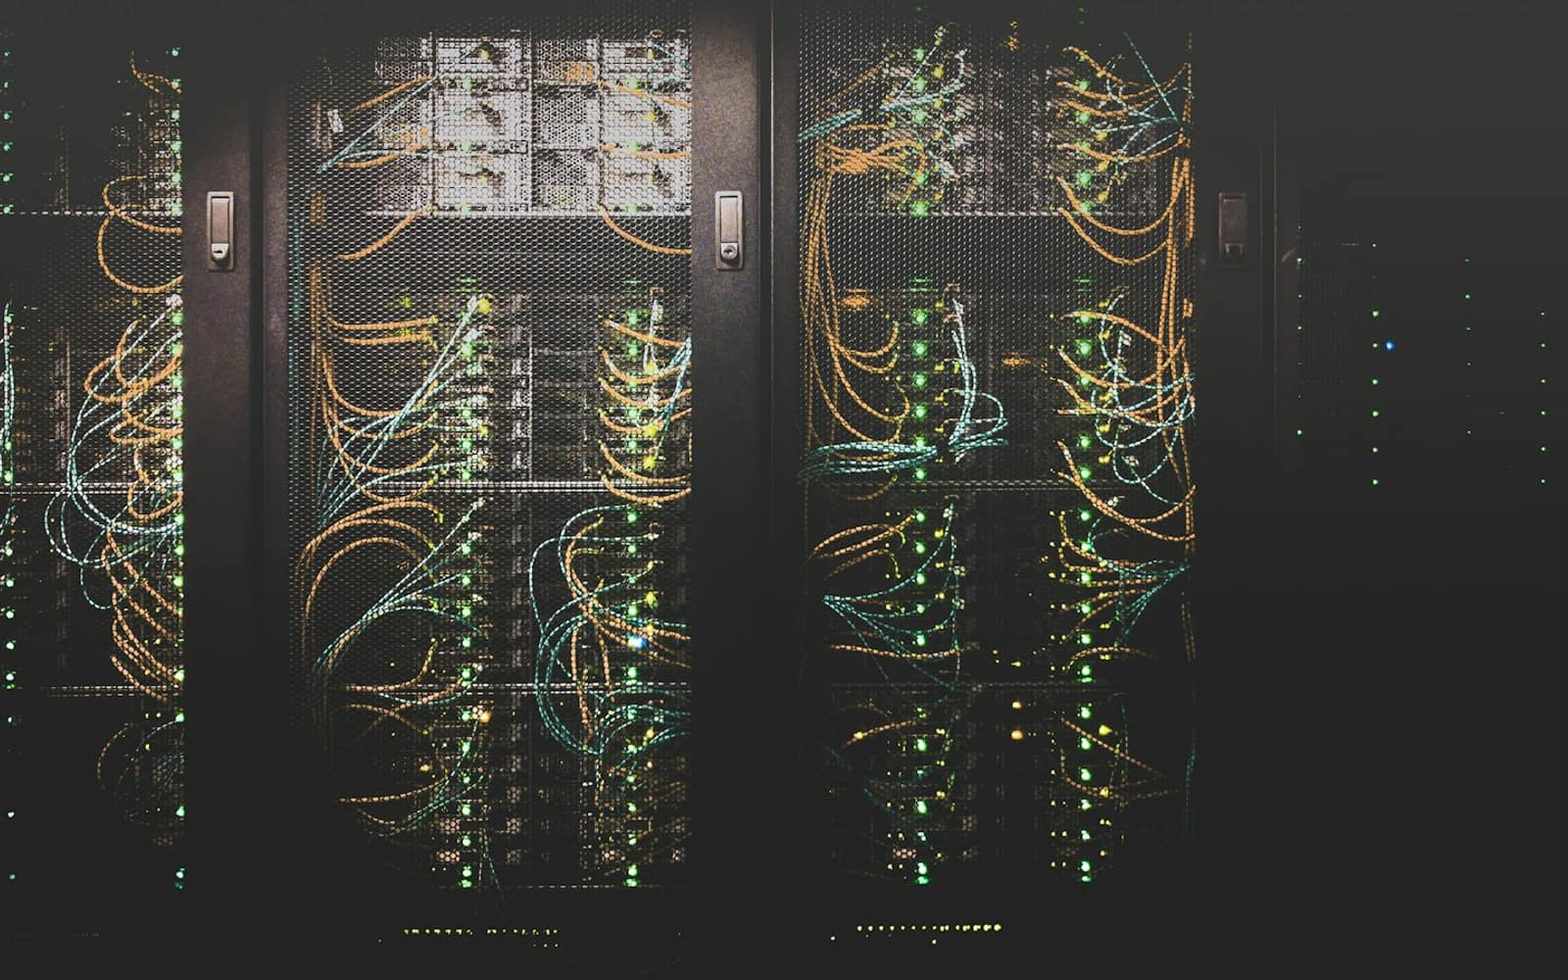
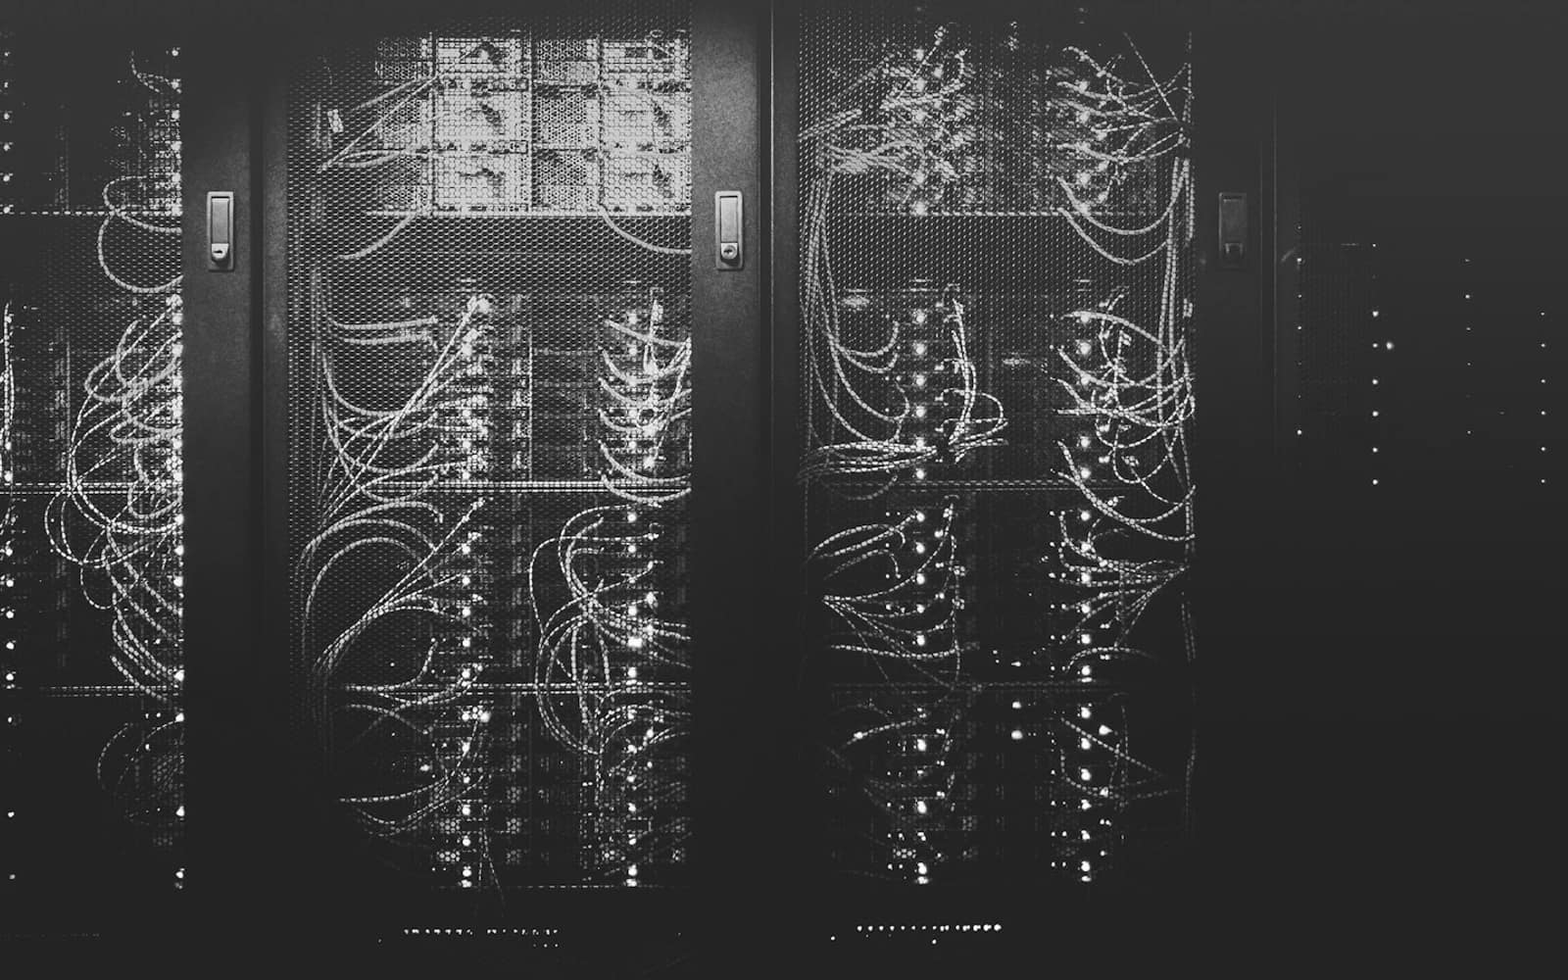
Rebuild the timeline as a sticky card stack with a zigzag photo
The section had three images across five steps, alternating sides, which is
three different row shapes and therefore no repeating unit. A rhythm needs a
repeating unit, so it read as an inconsistency rather than a sequence.

Every step now carries a photograph and every step is a card. From 768px card
n sticks at 6rem + n * 0.75rem, so scrolling deals the cards over each other
and the covered steps stay readable as a deck of edges. That makes the
sequence physical: you cannot reach Harden without passing Diagnose. Inside
the cards the photo zigzags, right on Diagnose then alternating, so no two
cards read as the same slide. Under 768px there is no stack, because a card
taller than the viewport cannot stack, and the cards are a plain list with the
photo above the text.

Each card also springs in on first view (new StepReveal leaf). This needed no
override: MASTER.md's motion vocabulary already listed "Spring entrance
(opacity + y) | Section content on first view" and pointed at Motion
whileInView. It had just never been built. Reduced motion is handled by
`animate` forcing the final state on mount, not by initial={false}:
useReducedMotion() is null during SSR, so the hidden initial style is already
in the HTML by the time the client learns the preference, and with nothing to
animate to the rows stayed at opacity 0 for good. That bug was caught in
testing, not shipped.

TimelineLine is deleted. Stacking cards and a rail beside them fight each
[…]

diff --git a/src/components/sections/v1/AfterYouBook.tsx b/src/components/sections/v1/AfterYouBook.tsx
@@ -1,16 +1,20 @@
 import { ScreenOrPhoto } from "./BrowserFrame";
-import { TimelineLine } from "./TimelineLine";
+import { StepReveal } from "./StepReveal";
 
 type Step = {
   verb: string;
   engineer: string;
   owner: string;
+  /** A photograph in public/site_images/services/. Every step has one, so the five rows read as one repeating unit. */
+  photo: string;
   /**
-   * `slot` names the real capture this step will get, and `alt` describes it. Diagnose and Verify are the
-   * before and after of the same site, so both are captured. Repair has no screen state worth capturing, so it
-   * stays a photograph for good and carries no slot.
+   * `slot` names the real capture this step will get, and `alt` describes it. Diagnose and Verify are the before
+   * and after of the same site, so both are captured. The other three have no screen state worth capturing and
+   * stay photographs for good.
    */
-  image?: { photo: string; side: "right" | "left"; slot?: string; url?: string; alt?: string };
+  slot?: string;
+  url?: string;
+  alt?: string;
 };
 
 // Verbs as labels, never numbers. One sentence on the engineer's work, one on what the owner receives.
@@ -19,50 +23,48 @@ const steps: Step[] = [
     verb: "Diagnose",
     engineer: "An engineer reads your PHP and server error logs and recent changes to find the exact plugin, file or setting that broke the site.",
     owner: "You get a plain explanation of the cause before anything is changed.",
-    image: {
-      slot: "critical-error-on-this-website",
-      url: "https://example.com/",
-      alt: "A WordPress site showing the message: There has been a critical error on this website.",
-      photo: "terminal",
-      side: "right",
-    },
+    photo: "terminal",
+    slot: "critical-error-on-this-website",
+    url: "https://example.com/",
+    alt: "A WordPress site showing the message: There has been a critical error on this website.",
   },
   {
     verb: "Back up",
     engineer: "We copy your files and database before touching anything.",
     owner: "You get a restore point, so every change can be undone.",
+    photo: "racks",
   },
   {
     verb: "Repair",
     engineer: "The engineer fixes or replaces the failing plugin, theme file or setting without deleting your content.",
     owner: "You get your site back with posts, orders and settings intact.",
-    image: { photo: "keys", side: "left" },
+    photo: "keys",
   },
   {
     verb: "Verify",
     engineer: "We load your key pages, wp-admin, forms and checkout to confirm each one works.",
     owner: "You get a short written report of what broke and what changed.",
-    image: {
-      slot: "restored-site",
-      url: "https://example.com/",
-      alt: "The same WordPress site loading normally again after the repair.",
-      photo: "workspace",
-      side: "right",
-    },
+    photo: "monitors",
+    slot: "restored-site",
+    url: "https://example.com/",
+    alt: "The same WordPress site loading normally again after the repair.",
   },
   {
     verb: "Harden",
     engineer: "We update or remove what caused the break and switch debugging output back off.",
     owner: "You get clear advice on how to stop it happening again.",
+    photo: "workspace",
   },
 ];
 
 /**
- * V1.5. Layout family: vertical timeline with a scroll-drawn line.
- * Three entries carry an image, alternating from 768px (Diagnose right, Repair left, Verify right); under 768px
- * everything stacks in one column with the image after the text. Repair and Verify are the only adjacent pair,
- * which is the contract's cap of 2 consecutive image-plus-text splits. Until the real captures exist these are
- * plain photographs, never framed.
+ * V1.5. Layout family: sticky card stack. Each step is one card; from 768px every card sticks 12px lower than the
+ * one before, so scrolling deals them over each other and the covered steps stay visible as a deck of edges. That
+ * is the sequence made physical: you cannot reach Harden without passing Diagnose. Inside the cards the photo
+ * zigzags, right on Diagnose then alternating, so two cards never look like the same slide twice.
+ * Under 768px the cards are a plain stacked list, photo above text, because a card taller than the viewport
+ * cannot stack. Reduced motion: `.step-stack` in globals.css drops the sticky back to static and removes the
+ * scroll budget with it, so it reads as that same plain list.
  */
 export function AfterYouBook() {
   return (
@@ -72,20 +74,35 @@ export function AfterYouBook() {
           What happens after you book
         </h2>
 
-        <TimelineLine>
-          <ol className="mt-12 space-y-14 md:space-y-20">
-            {steps.map((s) => (
-              <li key={s.verb} className={`pl-10 ${s.image ? "grid items-center gap-8 md:grid-cols-2 md:gap-12" : ""}`}>
-                <div className={s.image?.side === "left" ? "md:order-last" : ""}>
-                  <h3 className="text-2xl font-semibold tracking-tight text-text">{s.verb}</h3>
-                  <p className="mt-3 max-w-[60ch] text-[16px] leading-relaxed text-text">{s.engineer}</p>
-                  <p className="mt-2 max-w-[60ch] text-[16px] leading-relaxed text-muted">{s.owner}</p>
-                </div>
-                {s.image && <ScreenOrPhoto slot={s.image.slot} url={s.image.url} alt={s.image.alt} photo={s.image.photo} />}
-              </li>
-            ))}
-          </ol>
-        </TimelineLine>
+        <ol className="step-stack mt-12">
+          {steps.map((s, i) => {
+            // Zigzag: Diagnose right, Back up left, and so on. The photo column swaps sides, the card does not.
+            const photoRight = i % 2 === 0;
+            return (
+              <StepReveal key={s.verb} className="md:sticky" style={{ top: `calc(6rem + ${i} * 0.75rem)` }}>
+                <article
+                  className={`grid overflow-hidden rounded-card border border-line bg-surface shadow-card md:min-h-[19rem] md:items-center ${
+                    photoRight ? "md:grid-cols-[minmax(0,1fr)_24rem]" : "md:grid-cols-[24rem_minmax(0,1fr)]"
+                  }`}
+                >
+                  <ScreenOrPhoto
+                    slot={s.slot}
+                    url={s.url}
+                    alt={s.alt}
+                    photo={s.photo}
+                    sizes="(min-width: 768px) 24rem, 100vw"
+                    className={`!rounded-none !border-0 md:!h-full md:row-start-1 md:object-cover ${photoRight ? "md:col-start-2" : "md:col-start-1"}`}
+                  />
+                  <div className={`p-6 md:row-start-1 md:p-8 ${photoRight ? "md:col-start-1" : "md:col-start-2"}`}>
+                    <h3 className="text-2xl font-semibold tracking-tight text-text">{s.verb}</h3>
+                    <p className="mt-3 max-w-[60ch] text-[16px] leading-relaxed text-text">{s.engineer}</p>
+                    <p className="mt-2 max-w-[60ch] text-[16px] leading-relaxed text-muted">{s.owner}</p>
+                  </div>
+                </article>
+              </StepReveal>
+            );
+          })}
+        </ol>
       </div>
     </section>
   );

diff --git a/src/components/sections/v1/StepReveal.tsx b/src/components/sections/v1/StepReveal.tsx
@@ -1,0 +1,40 @@
+"use client";
+
+import { motion, useReducedMotion } from "motion/react";
+import type { CSSProperties, ReactNode } from "react";
+
+/**
+ * One timeline step entering on first view (MASTER.md motion vocabulary: spring entrance, opacity and y).
+ * What it communicates: hierarchy, you take the fix one step at a time as you reach it.
+ *
+ * Reduced motion: `animate` forces the final state on mount, so the row is settled without ever waiting for the
+ * viewport. It cannot be done with `initial={false}` instead: useReducedMotion() is null during SSR, so the
+ * hidden initial style is already in the HTML by the time the client learns the preference, and with nothing to
+ * animate to the row would stay at opacity 0 for good. MotionConfig is wrong here for the reason BentoCell gives,
+ * it collapses the transition but still applies the y offset.
+ */
+export function StepReveal({
+  children,
+  className = "",
+  style,
+}: {
+  children: ReactNode;
+  className?: string;
+  style?: CSSProperties; // the card's sticky offset, which differs per step so it cannot be a utility class
+}) {
+  const reduce = useReducedMotion();
+
+  return (
+    <motion.li
+      className={className}
+      style={style}
+      initial={{ opacity: 0, y: 16 }}
+      animate={reduce ? { opacity: 1, y: 0 } : undefined}
+      whileInView={{ opacity: 1, y: 0 }}
+      viewport={{ once: true, amount: 0.3 }}
+      transition={reduce ? { duration: 0 } : { type: "spring", stiffness: 100, damping: 20 }}
+    >
+      {children}
+    </motion.li>
+  );
+}

diff --git a/src/app/globals.css b/src/app/globals.css
@@ -83,3 +83,16 @@
 .legal-prose li::before { content: ""; position: absolute; left: 0; top: 0.85em; width: 0.5rem; height: 1px; background: var(--muted); }
 .legal-prose a { color: var(--accent-ink); text-decoration: underline; text-underline-offset: 4px; }
 .legal-prose strong { color: var(--text); font-weight: 600; }
+
+/* Timeline step stack (src/components/sections/v1/AfterYouBook.tsx): the cards deal over each other on scroll.
+   The gap is the scroll budget that lets each card travel over the one before, so it lives here rather than in a
+   space-y utility: reduced motion has to take the gap away as well as the sticky, or the section keeps 1150px of
+   empty scroll it no longer uses. */
+.step-stack > li + li { margin-top: 2rem; }
+@media (min-width: 768px) {
+  .step-stack > li + li { margin-top: 15rem; }
+}
+@media (prefers-reduced-motion: reduce) {
+  .step-stack > li { position: static; }
+  .step-stack > li + li { margin-top: 2rem; }
+}

diff --git a/src/components/sections/v1/BrowserFrame.tsx b/src/components/sections/v1/BrowserFrame.tsx
@@ -48,6 +48,7 @@ export function ScreenOrPhoto({
   photo,
   className = "",
   preload = false,
+  sizes = "(min-width: 768px) 40vw, 100vw",
 }: {
   slot?: string;
   url?: string;
@@ -55,6 +56,7 @@ export function ScreenOrPhoto({
   photo?: string;
   className?: string;
   preload?: boolean;
+  sizes?: string; // the slot's real width, so next/image stops fetching a file wider than the column
 }) {
   if (slot && url && alt && hasCapture(slot)) return <BrowserFrame slot={slot} url={url} alt={alt} className={className} preload={preload} />;
   if (!photo) return null;
@@ -64,7 +66,7 @@ export function ScreenOrPhoto({
       alt=""
       width={1600}
       height={1000}
-      sizes="(min-width: 768px) 40vw, 100vw"
+      sizes={sizes}
       preload={preload}
       quality={65}
       className={`block h-auto w-full rounded-card border border-line object-cover ${className}`}

diff --git a/docs/layout-ledger.md b/docs/layout-ledger.md
@@ -26,7 +26,7 @@ Status: S1, S2 built in V1.1. Eyebrows used: 0. Marquees used: 0.
 | H1 | Hero with live triage | Asymmetric split 5/7 (text / interactive console); stacked under 768px, console after headline | No | No | BOOK (solid), CHAT (ghost); console result adds BOOK (service + guide) and the HOW text link; no-match shows CHAT + CHECK text link |
 | H2 | Platform logos under the hero | Logo marquee (the page's only marquee): one plain line + monochrome Simple Icons logos | No (plain sentence, not an eyebrow) | Yes (1 of 1) | None |
 | H3 | Problem finder | Vertical tab index: search above, left vertical tablist (horizontal scroll-snap under 768px), right 2-column row list | Yes: "Common emergencies" (1 of 1 allowed at 3 sections) | No | BOOK per search result (text link), CHAT in footer; rows link to service and guide pages |
-| H4 | After you book | Vertical timeline with a scroll-drawn line; images on three entries, alternating (Diagnose right, Repair left, Verify right) | No | No | None |
+| H4 | After you book | Sticky card stack: five step cards, each sticking 12px lower than the last so scrolling deals them over each other; photo zigzags right, left, right inside the cards; each card spring-enters on first view | No | No | None |
 | H5 | Trust bento | Bento grid, 5 cells in 3x3: 2x2 photo (guarantee), 1x1 accent tint, 1x1 macro photo, 1x1 surface, 2x1 surface-2; columns A/A/D, A/A/E, B/C/E | No | No | None |
 | H6 | Live desk status | Full-width single statement row: status or desk hours left, one CTA right | No | No | CHAT only |
 | H7 | Pricing | Uneven pricing columns 1.4fr 1fr 1fr at lg (emergency full row over two columns at md, stacked under 768px, emergency first) | No | No | BOOK (emergency), PLANS (support hours, care plans), CHECK text link under the grid |
@@ -51,6 +51,41 @@ rule 3's cap of 2 consecutive image-plus-text splits. Three text-only rows in a 
 section empty and the two images looked arbitrary rather than rhythmic. Diagnose and Verify keep their capture
 slots (the same site broken, then working); Repair has no screen state worth capturing, so it carries a
 photograph with no slot and will never switch.
+
+V1.5 revised again (scroll-reveal pass): all five steps now carry a photograph and every row is the same unit,
+photo in a fixed 22rem column left of the text from 768px, never alternating. Alternation was the actual fault:
+three images across five steps flipping sides produced three different row shapes and therefore no repeating
+unit, which is what a rhythm is. Under 768px a step stacks text first so the verb leads, then the photo.
+
+Each row enters with a spring on opacity and y as it reaches the viewport (`StepReveal`, a `"use client"` leaf
+beside `TimelineLine`). This needs no override: MASTER.md's motion vocabulary already lists "Spring entrance
+(opacity + y) | Section content on first view | Hierarchy: what to read first" and directs it to Motion
+`whileInView` or IntersectionObserver. It had simply never been built. `useReducedMotion()` suppresses the
+initial offset so the rows mount in their final state; `MotionConfig` is wrong here because it collapses the
+transition but still applies the y offset.
+
+Rule 3's "max 2 consecutive image-plus-text splits" reading, recorded so this does not get re-litigated: the
+counter is page level. It sits among the other page-level counters in the same rule (sections, marquees,
+eyebrows), and it exists to stop the page stacking big alternating half-page image slabs. Five contained media
+rows inside one list are one unit repeated, not five splits. Photos per step: Diagnose terminal, Back up racks,
+Repair keys, Verify monitors, Harden workspace, an arc from investigating to resolved. Only Diagnose and Verify
+carry capture slots.
+
+V1.5 revised a third time (sticky stack): the layout family changes from "vertical timeline with a scroll-drawn
+line" to **sticky card stack**. Each step is a `bg-surface` card; from 768px card n sticks at `6rem + n * 0.75rem`
+so scrolling deals each card over the one before and the covered steps stay readable as a deck of edges. The
+photo zigzags inside the cards, right on Diagnose then alternating, so no two cards read as the same slide. The
+flat list was correct and still dull; the stack makes the sequence physical, which is the point of the section.
+
+Checked against rule 3: no other home section is a sticky stack, so the family is free. `service.md` forbids the
+*timeline* on service pages and is unaffected. `TimelineLine.tsx` is deleted, since stacking cards and a rail
+beside them fight each other; that removes the SVG line-draw, which MASTER.md Override 10 listed as one of three
+allowed effects, so Override 10 and the motion vocabulary table now name the sticky stack in its place.
+
+Cost, stated plainly: the stack needs scroll distance to deal, so the section runs 2799px at 1440 against 1679px
+for the flat version. Under 768px there is no stack at all (a card taller than the viewport cannot stack) and the
+cards are a plain list. Reduced motion drops both the sticky and the 15rem gap, landing at 1967px, so nobody
+scrolls past empty space they are not being shown anything in.
 
 V1.6: H5 built (trust bento). Home sections so far: 5. Eyebrows used: 1 of ceil(5/3)=2. Marquees used: 1 of 1. Image-plus-text splits in a row: 0. Three claims and the guarantee render as {{CONFIRM}} until confirmed in src/config/brand.ts.
 
@@ -98,7 +133,7 @@ None reuses a home layout family. Thin-content scan over all 95 sitemap pages: 0
 | Slot | Layout family | Eyebrow | Marquee | CTA intents |
 | --- | --- | --- | --- | --- |
 | Service hero image (32 pages) | Unframed 16:10 photograph, 12px radius, hairline border, directly under the hero CTA pair | No | No | None |
-| Timeline Diagnose / Verify | Same photograph treatment, in the right / left grid cell from 768px | No | No | None |
+| Timeline, all five steps | Same photograph treatment, flush inside the step card in a 24rem column, side alternating (see the V1.5 sticky-stack note) | No | No | None |
 
 The browser frame is gone from both until a real capture exists in `public/screens/`; `ScreenOrPhoto` switches
 back to the framed capture automatically. Chrome around a stock photo would read as a screenshot of the

diff --git a/docs/image-todo.md b/docs/image-todo.md
@@ -36,11 +36,13 @@ photograph to the framed capture with no code change.
 | Slot | Size | Art direction (MASTER.md) | Used in |
 | --- | --- | --- | --- |
 | `critical-error-on-this-website` | 1600x1000 | WordPress "There has been a critical error on this website." screen. Shows `services/terminal.jpg` until then | src/components/sections/v1/AfterYouBook.tsx |
-| `restored-site` | 1600x1000 | The same WordPress site working again (default theme home page). Shows `services/workspace.jpg` until then | src/components/sections/v1/AfterYouBook.tsx |
+| `restored-site` | 1600x1000 | The same WordPress site working again (default theme home page). Shows `services/monitors.jpg` until then | src/components/sections/v1/AfterYouBook.tsx |
 
-The timeline's Repair step also carries an image (`services/keys.jpg`) but **no slot**: there is no screen state
-worth capturing while a file is being edited, so it stays a photograph permanently. Diagnose and Verify are the
-before and after of one site, which is the pair the section argues with.
+All five timeline steps carry a photograph, because identical rows are what make the section read as a rhythm:
+Diagnose `terminal`, Back up `racks`, Repair `keys`, Verify `monitors`, Harden `workspace`, an arc from
+investigating to resolved. Only Diagnose and Verify carry a capture slot. They are the before and after of one
+site, which is the pair the section argues with; Back up, Repair and Harden have no screen state worth capturing
+while files are being copied or edited, so those three stay photographs permanently and will never switch.
 | `service-<id>` (32 slots) | 1600x1000 | The WordPress admin or front end showing that service's problem or result. Shows the service's `image.photo` until then | src/components/templates/ServiceTemplate.tsx |
 | `illustration-<slug>` / error slots (37 guide slots) | 1600x1000 | Guide pages render nothing until the capture exists; no stand-in | src/components/templates/GuideTemplate.tsx |
 
@@ -62,7 +64,7 @@ contract bans images that look like UI.
 | `emergency` | Engineer over the shoulder at a laptop of code, city at night behind | critical-error, emergency |
 | `alert` | Wall of red server LEDs | server-errors |
 | `monitors` | Two screens of code against a red wall | malware-removal, blacklist-removal, seo-spam-cleanup |
-| `racks` | Rows of server racks | database-connection-error, hosting-migration, site-recovery |
+| `racks` | Rows of server racks, desaturated off the green and amber fibre | database-connection-error, hosting-migration, site-recovery |
 | `cables` | Patch panel, desaturated off the blue cables | speed-optimization, platform-migration |
 | `terminal` | Hands on a laptop, code on screen | audit-hardening, custom-plugin, hire-developer, login-redirect-issues |
 | `keys` | Black keyboard macro | plugin-theme-conflict, update-php-errors |

diff --git a/design-system/fixmywp-v1/MASTER.md b/design-system/fixmywp-v1/MASTER.md
@@ -25,7 +25,7 @@
 | 7 | Shadow tokens built on `rgba(0,0,0,...)` | One tinted shadow token, `--shadow-card` | Contract rule 6 bans pure black. Dark shadows are tinted from `--bg` |
 | 8 | Modal radius 16px, mixed radii | **Shape lock:** cards 12px, inputs and buttons 8px, nothing else rounded | Brief. A consistent shape language |
 | 9 | Hover `transform: translateY(-1px)` with `transition: all` | Motion springs (stiffness 100, damping 20) for entrances and hover. Animate transform and opacity only. `:active` uses `scale-[0.98]` | Brief and contract rules 5 and 10. `transition: all` animates layout properties |
-| 10 | GSAP Stagger List with `back.out(1.4)` | Motion only. GSAP is not installed, and the two are never mixed (contract rule 2). Allowed effects: **one** streaming-text effect (inside the triage widget only), **one** SVG line-draw (process timeline), **one** marquee (platform logos). No other loops | Brief: restrained Motion |
+| 10 | GSAP Stagger List with `back.out(1.4)` | Motion only. GSAP is not installed, and the two are never mixed (contract rule 2). Allowed effects: **one** streaming-text effect (inside the triage widget only), **one** sticky card stack (process timeline), **one** marquee (platform logos). No other loops | Brief: restrained Motion |
 | 11 | Icons: Heroicons or Lucide | Phosphor (`@phosphor-icons/react`), weight `regular` everywhere | Brief |
 | 12 | Checklist item "Light mode: text contrast 4.5:1" | Dark-only contrast checks (table below) | Theme is locked dark |
 | 13 | CTA placement "Contact Sales / Get Quote" | CTA labels only from `src/config/cta.ts`: BOOK "Fix my site", CHAT "Chat with an engineer", PLANS "See care plans" | Contract rule 5 and the foundation CRO plumbing |
@@ -118,7 +118,7 @@ Re-run these whenever a token changes.
 | Spring entrance (opacity + y) | Section content on first view | Hierarchy: what to read first |
 | Spring hover (transform) | Interactive cards and buttons | Feedback: this responds |
 | Streaming text | Triage widget only | State: the diagnosis is being worked out from your input |
-| SVG line-draw | Process timeline only | Story: Diagnose, then Back up, then Repair, then Verify, then Harden |
+| Sticky card stack | Process timeline only | Story: the five steps deal over each other in order, so you cannot reach Harden without passing Diagnose |
 | Marquee | Platform logos only | Breadth: the platforms we work on |
 
 - Springs: stiffness 100, damping 20.

diff --git a/docs/image-credits.md b/docs/image-credits.md
@@ -17,7 +17,7 @@ excluded.
 | `emergency.jpg` | `photo-1758773263238-1989d0cc788c` | crop only |
 | `alert.jpg` | `photo-1739799088045-7b715b372b46` | crop only |
 | `monitors.jpg` | `photo-1457305237443-44c3d5a30b89` | crop only |
-| `racks.jpg` | `photo-1558494949-ef010cbdcc31` | crop only |
+| `racks.jpg` | `photo-1558494949-ef010cbdcc31` | crop, **desaturated** to take the green and amber out of the fibre runs |
 | `cables.jpg` | `photo-1544197150-b99a580bb7a8` | crop, **desaturated** to take the blue out of the patch cables |
 | `terminal.jpg` | `photo-1678728245335-244ffd160d54` | crop only |
 | `keys.jpg` | `photo-1649875951876-59484d9a43e5` | crop only |
